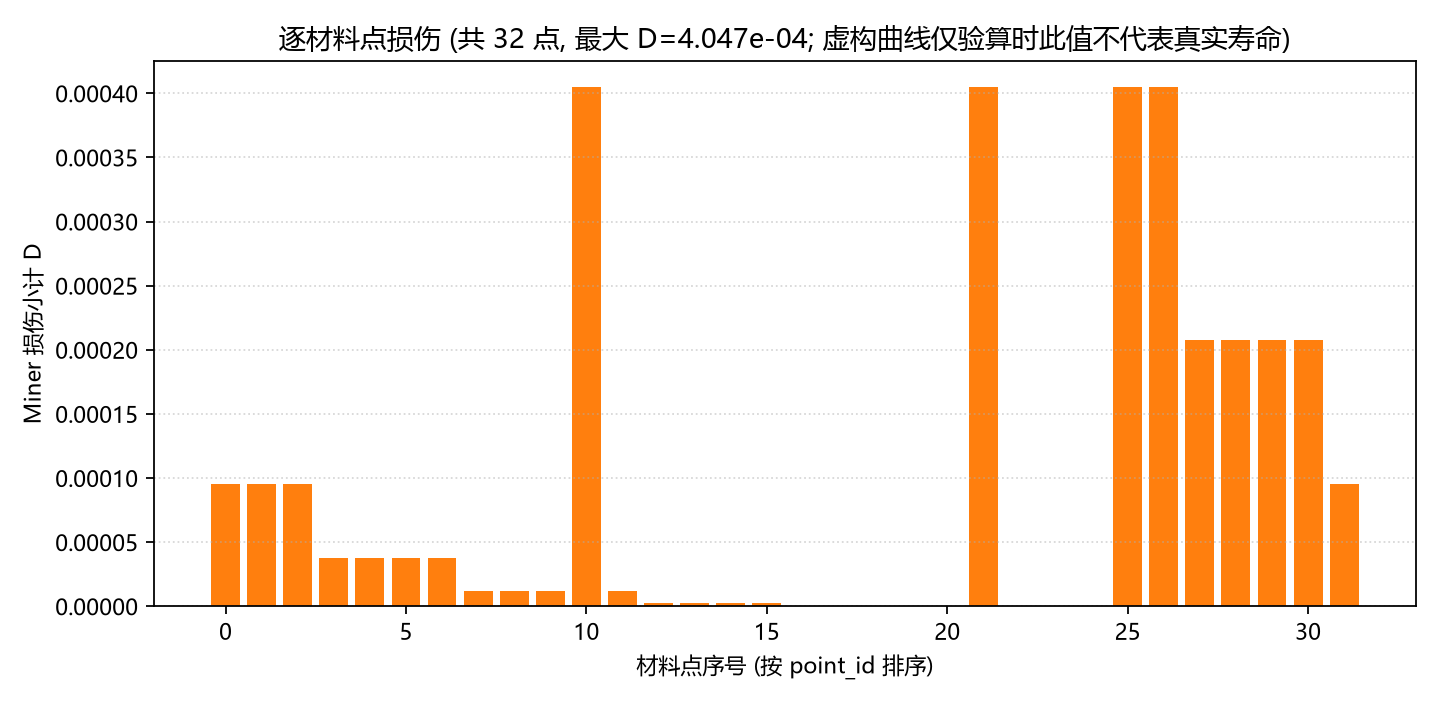
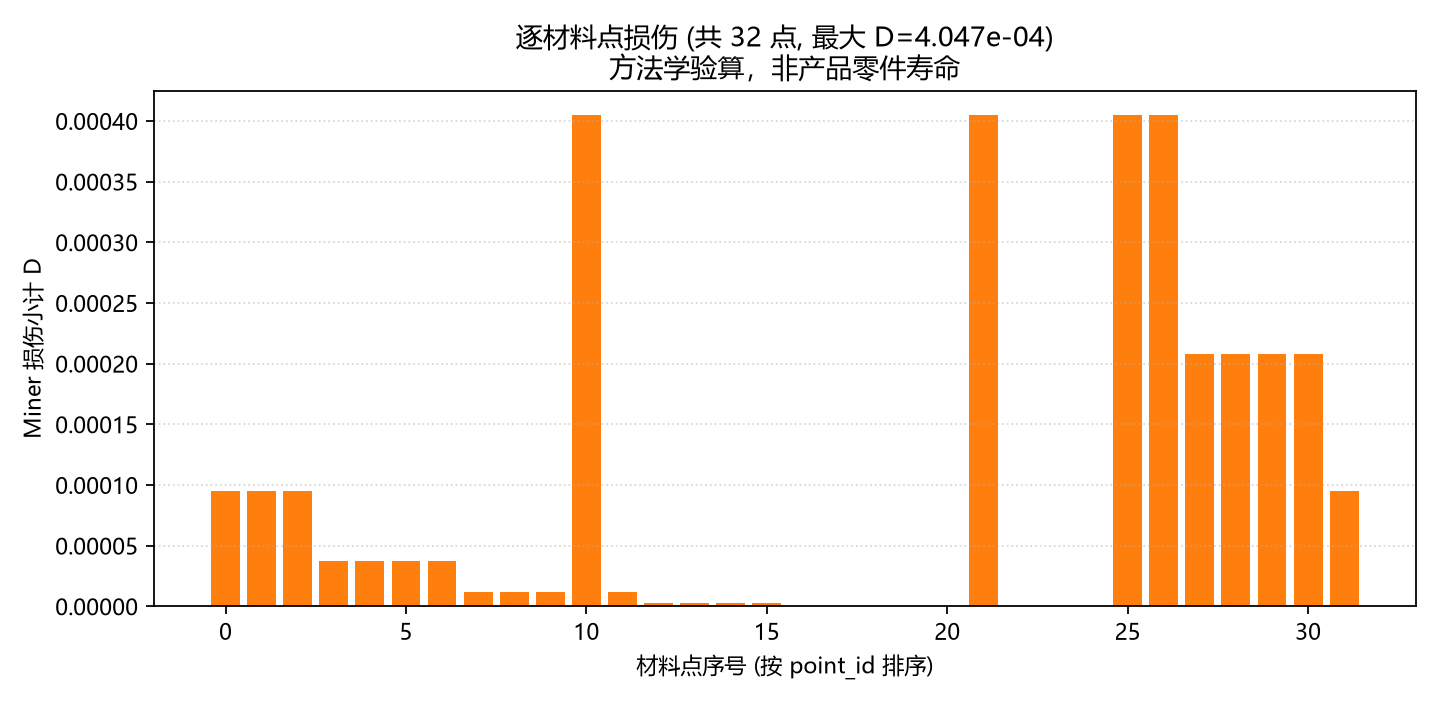
Fix damage figure caption to neutral methodology note

diff --git a/fatigue/plot_results.py b/fatigue/plot_results.py
@@ -175,8 +175,8 @@ def plot_damage(damage_dir: Path, out: Path):
     ax.bar(idx, d, color="#ff7f0e")
     ax.set_xlabel("材料点序号 (按 point_id 排序)")
     ax.set_ylabel("Miner 损伤小计 D")
-    ax.set_title(f"逐材料点损伤 (共 {len(d)} 点, 最大 D={d.max():.3e}; "
-                 f"虚构曲线仅验算时此值不代表真实寿命)")
+    ax.set_title(f"逐材料点损伤 (共 {len(d)} 点, 最大 D={d.max():.3e})\n"
+                 f"方法学验算，非产品零件寿命")
     ax.grid(True, axis="y", ls=":", alpha=0.5)
     fig.tight_layout()
     fig.savefig(out / "damage_map.png", dpi=160)
